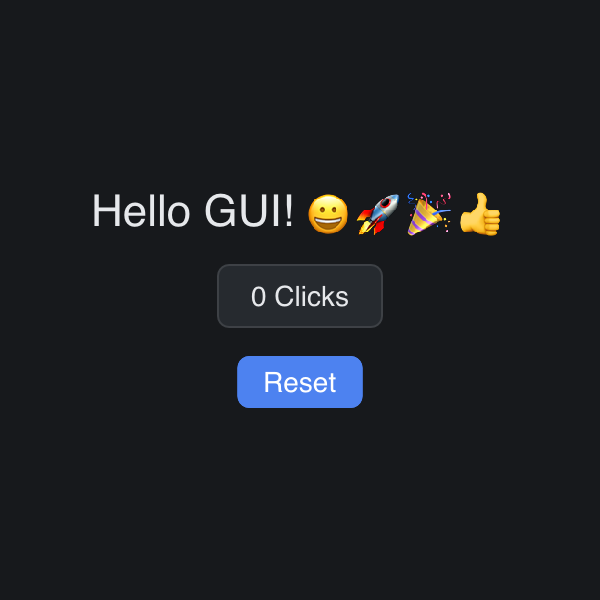
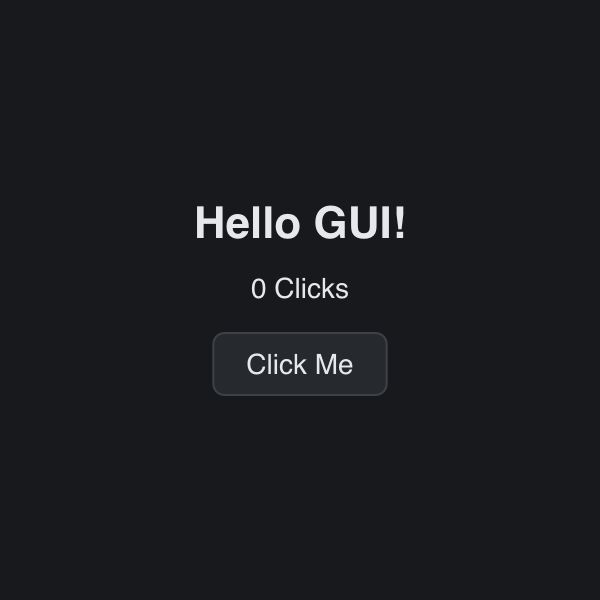
docs(examples): simplify get_started to one button and one counter (#856)

Changed region(s): [[0.15, 0.3, 0.84, 0.51], [0.33, 0.45, 0.66, 0.69], [0.63, 0.45, 0.66, 0.54]]

diff --git a/examples/get_started/main.go b/examples/get_started/main.go
@@ -4,39 +4,23 @@ package main
 import (
 	"fmt"
 
-	"flag"
-	"log"
-	"os"
-
 	"github.com/go-gui-org/go-gui/gui"
 	"github.com/go-gui-org/go-gui/gui/backend"
-	"github.com/go-gui-org/go-gui/gui/backend/soft"
 )
 
+// App holds the window state. The view reads it on every frame.
 type App struct {
 	Clicks int
 }
 
 func main() {
-	screenshot := flag.String("screenshot", "", "write screenshot and exit")
-	flag.Parse()
-
-	// SimpleWindow covers title/size/state/OnInit. Use NewWindow
-	// directly when you need other WindowCfg fields (OnCloseRequest,
-	// ImageFetcher, FixedSize, ...).
 	w := gui.SimpleWindow("Get Started", 300, 300, &App{}, func(w *gui.Window) {
 		w.SetView(mainView)
 	})
-
-	if *screenshot != "" {
-		if err := soft.RenderToPNG(w, 2, *screenshot); err != nil {
-			log.Fatalf("screenshot: %v", err)
-		}
-		os.Exit(0)
-	}
 	backend.Run(w)
 }
 
+// mainView builds the UI from the current state. It runs again for each frame.
 func mainView(w *gui.Window) gui.View {
 	app := gui.State[App](w)
 
@@ -45,27 +29,11 @@ func mainView(w *gui.Window) gui.View {
 		HAlign: gui.HAlignCenter,
 		VAlign: gui.VAlignMiddle,
 		Content: []gui.View{
-			gui.Label("Hello GUI! 😀🚀🎉👍", gui.CurrentTheme().TextStyleDisplay),
-			// Button (not TextButton) so the counter carries an
-			// accessible name; the padding matches TextButton's.
-			gui.Button(gui.ButtonCfg{
-				ID:      gui.ScopeID("get-started", "counter"),
-				A11YCfg: gui.A11YCfg{A11YLabel: "Increment counter"},
-				Padding: gui.NewPadding(8, 16, 8, 16),
-				Content: []gui.View{
-					gui.Text(gui.TextCfg{Text: fmt.Sprintf("%d Clicks", app.Clicks)}),
-				},
-				OnClick: func(ctx gui.EventCtx) {
-					// Update the typed window state; the next frame reads it back.
-					gui.State[App](ctx.Window).Clicks++
-					ctx.Consume()
-				},
-			}),
-			// A primary button is the accent-filled call to action —
-			// the convention is one per surface (docs/style-guide.md).
-			gui.TextButtonVariant(gui.ScopeID("get-started", "primary"), "Reset", gui.ButtonPrimary, func(ctx gui.EventCtx) {
-				gui.State[App](ctx.Window).Clicks = 0
-				ctx.Consume()
+			gui.Label("Hello GUI!", gui.CurrentTheme().TextStyleDisplay),
+			gui.Label(fmt.Sprintf("%d Clicks", app.Clicks), gui.TextStyle{}),
+			gui.TextButton("counter", "Click Me", func(ctx gui.EventCtx) {
+				// Change the state. The next frame shows the new count.
+				gui.State[App](ctx.Window).Clicks++
 			}),
 		},
 	})

diff --git a/examples/showcase/sound_snippet_test.go b/examples/showcase/sound_snippet_test.go
@@ -19,8 +19,12 @@ import (
 // one and not the other is exactly the drift this catches.
 type snippetEntry struct {
 	sourceFile string
-	beginMark  string
-	endMark    string
+	// beginMark and endMark bound the quoted region. When both are
+	// empty the guide quotes the whole file, so the source needs no
+	// markers. The get_started example uses this: markers would add
+	// noise to the first file a new reader opens.
+	beginMark string
+	endMark   string
 	// anchor is a substring the marked region must contain. It
 	// catches the markers drifting off the code they pin.
 	anchor string
@@ -71,6 +75,14 @@ var snippetEntries = []snippetEntry{
 		heading:    "## Reading the manifest at run time",
 		guides: []string{
 			"../../docs/deployment.md",
+		},
+	},
+	{
+		sourceFile: "../get_started/main.go",
+		anchor:     "func mainView(",
+		heading:    "## It's just Go",
+		guides: []string{
+			"../../README.md",
 		},
 	},
 }
@@ -127,8 +139,11 @@ func TestGuideSnippetsMatchSource(t *testing.T) {
 		if err != nil {
 			t.Fatalf("read %s: %v", e.sourceFile, err)
 		}
-		want := markedRegion(t, string(raw), e.sourceFile,
-			e.beginMark, e.endMark)
+		want := strings.Trim(string(raw), "\n")
+		if e.beginMark != "" || e.endMark != "" {
+			want = markedRegion(t, string(raw), e.sourceFile,
+				e.beginMark, e.endMark)
+		}
 		if !strings.Contains(want, e.anchor) {
 			t.Fatalf("%s: marked region no longer contains %q; the "+
 				"markers have drifted off the code they pin",

diff --git a/examples/get_started/screenshot.go b/examples/get_started/screenshot.go
@@ -1,0 +1,32 @@
+package main
+
+// This file is not part of the example. It lets the explorer capture tool
+// (examples/explorer/cmd/capture) write screenshot.png without a window:
+//
+//	go run ./examples/get_started -screenshot <file>
+//
+// It lives apart from main.go so that main.go stays a short introduction.
+
+import (
+	"log"
+	"os"
+
+	"github.com/go-gui-org/go-gui/gui"
+	"github.com/go-gui-org/go-gui/gui/backend/soft"
+)
+
+// init runs before main. With "-screenshot <file>" it renders one frame to a
+// PNG and exits, so main never opens a window. Any other arguments (for
+// example the -test.* flags of go test) fall through to main unchanged.
+func init() {
+	if len(os.Args) != 3 || os.Args[1] != "-screenshot" {
+		return
+	}
+	w := gui.SimpleWindow("Get Started", 300, 300, &App{}, func(w *gui.Window) {
+		w.SetView(mainView)
+	})
+	if err := soft.RenderToPNG(w, 2, os.Args[2]); err != nil {
+		log.Fatalf("screenshot: %v", err)
+	}
+	os.Exit(0)
+}

diff --git a/README.md b/README.md
@@ -37,36 +37,45 @@ Instant evaluation._
 Your UI is Go code. Your state is Go data. Your application is a Go program.
 
 ```go
+// This example demonstrates the smallest stateful go-gui app: one button and one counter.
 package main
 
 import (
-    "fmt"
+	"fmt"
 
-    "github.com/go-gui-org/go-gui/gui"
-    "github.com/go-gui-org/go-gui/gui/backend"
+	"github.com/go-gui-org/go-gui/gui"
+	"github.com/go-gui-org/go-gui/gui/backend"
 )
 
-type App struct{ Clicks int }
-
-func main() {
-    w := gui.SimpleWindow("Counter", 300, 150, &App{}, func(w *gui.Window) {
-        w.SetView(mainView)
-    })
-
-    backend.Run(w)
+// App holds the window state. The view reads it on every frame.
+type App struct {
+	Clicks int
 }
 
-func mainView(w *gui.Window) gui.View {
-    app := gui.State[App](w)
+func main() {
+	w := gui.SimpleWindow("Get Started", 300, 300, &App{}, func(w *gui.Window) {
+		w.SetView(mainView)
+	})
+	backend.Run(w)
+}
 
-    return gui.Column(gui.ContainerCfg{
-        Content: []gui.View{
-            gui.Label(fmt.Sprintf("%d Clicks", app.Clicks), gui.TextStyle{}),
-            gui.TextButton("counter", "Click Me", func(ctx gui.EventCtx) {
-                gui.State[App](ctx.Window).Clicks++
-            }),
-        },
-    })
+// mainView builds the UI from the current state. It runs again for each frame.
+func mainView(w *gui.Window) gui.View {
+	app := gui.State[App](w)
+
+	return gui.Column(gui.ContainerCfg{
+		Sizing: gui.FillFill,
+		HAlign: gui.HAlignCenter,
+		VAlign: gui.VAlignMiddle,
+		Content: []gui.View{
+			gui.Label("Hello GUI!", gui.CurrentTheme().TextStyleDisplay),
+			gui.Label(fmt.Sprintf("%d Clicks", app.Clicks), gui.TextStyle{}),
+			gui.TextButton("counter", "Click Me", func(ctx gui.EventCtx) {
+				// Change the state. The next frame shows the new count.
+				gui.State[App](ctx.Window).Clicks++
+			}),
+		},
+	})
 }
 ```
 
@@ -74,8 +83,8 @@ func mainView(w *gui.Window) gui.View {
 `gui.TextButton(id, label, onClick)` and `gui.SimpleWindow` are thin convenience
 forms. The `ID` argument stays explicit because identity is caller-owned.
 
-See [`examples/get_started/`](examples/get_started/) for the full runnable
-version and [`examples/web_demo/`](examples/web_demo/) for the browser build.
+This is [`examples/get_started/main.go`](examples/get_started/main.go). See
+[`examples/web_demo/`](examples/web_demo/) for the browser build.
 
 Guides: [Debugging](https://github.com/go-gui-org/go-gui/wiki/Debugging) ·
 [Theming](https://github.com/go-gui-org/go-gui/wiki/Theming) ·
